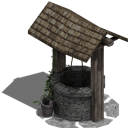
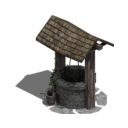
Working on adding crystals

diff --git a/LoadingScreen.cpp b/LoadingScreen.cpp
@@ -78,17 +78,14 @@ bool LoadingScreen::loadBase(sf::RenderWindow &window) {
         Fonts::get()->add("1", "fonts/1.ttf");
         Textures::get()->add("loading_screen", "images/loading_screen.jpg");
     }
-	catch (CouldntOpenFont &e) {
-        return false;
-    }
-    catch (CouldntOpenTexture& e) {
+	catch (CouldntOpen&) {
         return false;
     }
 
     try {
         Locales::get()->load();
     }
-	catch (CouldntOpenLocales &e) {
+	catch (CouldntOpen &e) {
         this->loadingError(&e, window);
         return false;
     }
@@ -129,7 +126,7 @@ bool LoadingScreen::loadAll(sf::RenderWindow &window) {
                 "btc", "producing_icon", "barracks", "treasure", "hand", "gates1", "gates2", "water",
                 "forest_icon", "water_icon", "warrior_purple", "warrior_green", "warrior_blue",
                 "cursor", "helmet", "skull", "resin", "spell_factory", "rage_spell", "poison_spell",
-                "infirmary", "christianity", "tower1", "tower2", "big_arrow_icon", "crystal_icon"}) {
+                "infirmary", "christianity", "tower1", "tower2", "big_arrow_icon", "crystal_icon", "warehouse_crystal"}) {
             Textures::get()->add(a, "images/" + a + ".png");
         }
         for (const std::string &a : {"none", "horizontal", "vertical", "all"}) {
@@ -171,18 +168,13 @@ bool LoadingScreen::loadAll(sf::RenderWindow &window) {
         for (uint32_t i = 1; i <= Fire::TOTAL_FRAMES; i = i + 1) {
             Textures::get()->add("fire" + std::to_string(i), "images/fire/" + std::to_string(i) + ".png");
         }
-    }
-	catch (CouldntOpenTexture &e) {
-        loadingError(&e, window);
-        return false;
-    }
 
-    try {
+
         for (const std::string& a : { "click", "food", "gold", "hooray", "iron",
                                       "regeneration", "stone", "wood", "road", "wind", "water",
                                       "destroy", "sword", "breath", "knight", "fire",
-                                      "ouch", "bottles", "gurgle", "spell_factory", "rage_spell", "poison_fog", 
-                                      "infantryman", "heal", "building_hit", "bell"}) {
+                                      "ouch", "bottles", "gurgle", "spell_factory", "rage_spell", "poison_fog",
+                                      "infantryman", "heal", "building_hit", "bell", "crystal"}) {
             Sounds::get()->add(a, "sounds/" + a + ".ogg");
         }
         for (uint32_t i = 1; i <= Warrior::TOTAL_FOOTSTEPS; i = i + 1) {
@@ -191,42 +183,27 @@ bool LoadingScreen::loadAll(sf::RenderWindow &window) {
         for (uint32_t i = 1; i <= BigArrow::TOTAL_SOUNDS; i = i + 1) {
             Sounds::get()->add("big_arrow" + std::to_string(i), "sounds/big_arrow/" + std::to_string(i) + ".ogg");
         }
-    }
-    catch (CouldntOpenSound &e) {
-        loadingError(&e, window);
-        return false;
-    }
 
-    try {
+
         Music::get()->add("intro", "music/intro.ogg");
         Music::get()->add("menu", "music/menu.ogg");
         for (uint32_t i = 0; i < Playlist::SOUNDTRACKS_N; i = i + 1) {
             Music::get()->add(std::to_string(i), "music/ingame_0" + std::to_string(i) + ".ogg");
         }
-    }
-	catch (CouldntOpenMusic &e) {
-        loadingError(&e, window);
-        return false;
-    }
 
 
-    try {
         Parameters::get()->load();
-    }
-    catch (CouldntOpenParameters& e) {
-        loadingError(&e, window);
-        return false;
-    }
 
-    try {
+
         for (const std::string& a : { "ridge" }) {
             Maps::get()->add(a, "levels/" + a + ".tmx");
         }
     }
-    catch (CouldntOpenMap& e) {
+	catch (CouldntOpen &e) {
         loadingError(&e, window);
         return false;
     }
+
 
     return true;
 }
